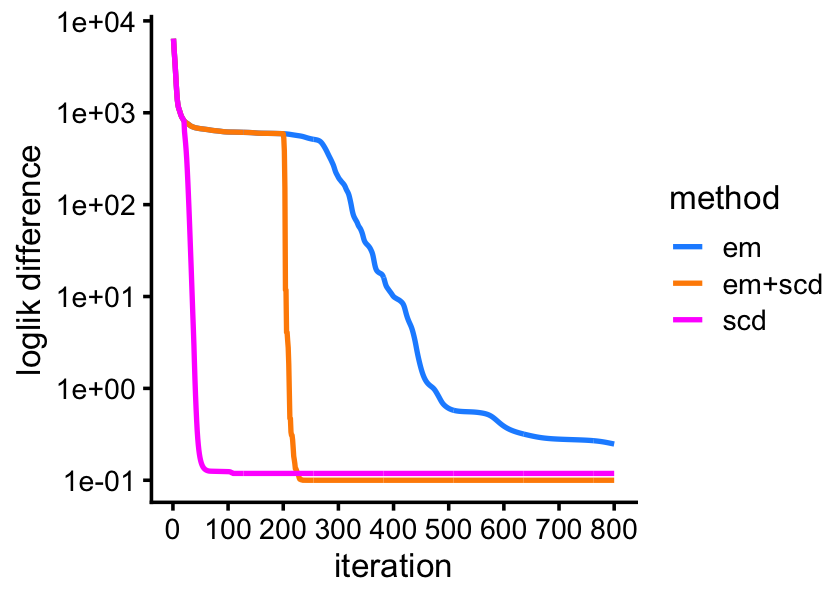
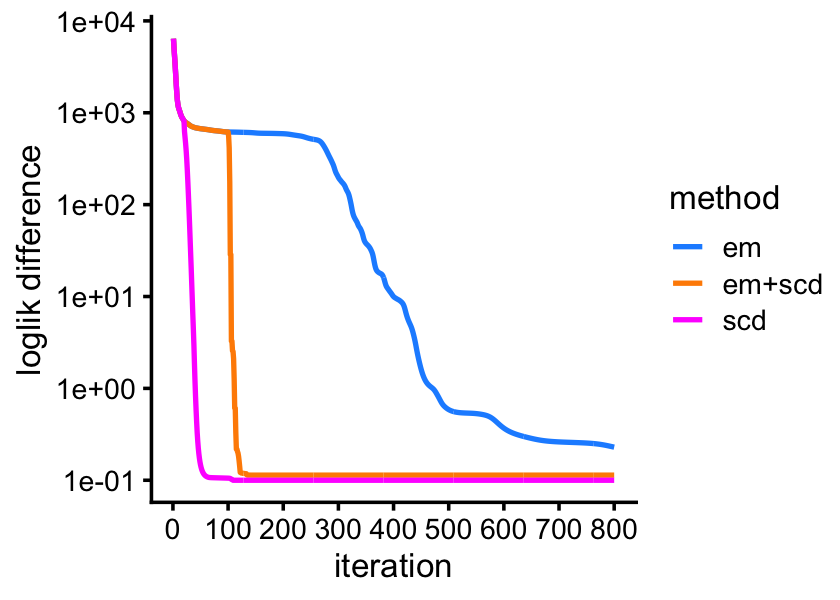
Small changes to the 'smallsim_hard' example.

diff --git a/docs/smallsim_hard.html b/docs/smallsim_hard.html
@@ -300,7 +300,7 @@ class="glyphicon glyphicon-ok text-success" aria-hidden="true"></span>
 <div class="tab-content">
 <div id="summary" class="tab-pane fade in active">
 <p>
-<strong>Last updated:</strong> 2024-06-23
+<strong>Last updated:</strong> 2024-06-26
 </p>
 <p>
 <strong>Checks:</strong> <span
@@ -432,15 +432,15 @@ project makes it easier to run your code on other machines.</p>
 <div class="panel panel-default">
 <div class="panel-heading">
 <p class="panel-title">
-<a data-toggle="collapse" data-parent="#workflowr-checks" href="#strongRepositoryversionstrongahrefhttpsgithubcomstephenslabfastTopicsexperimentstree4e9dfbe5d68f1d63eb97dcc6550660b9532a536ftargetblank4e9dfbea">
+<a data-toggle="collapse" data-parent="#workflowr-checks" href="#strongRepositoryversionstrongahrefhttpsgithubcomstephenslabfastTopicsexperimentstree00f10c09dfecbe395a263a3dd1c52882ba5e9a9btargetblank00f10c0a">
 <span class="glyphicon glyphicon-ok text-success"
 aria-hidden="true"></span> <strong>Repository version:</strong>
-<a href="https://github.com/stephenslab/fastTopics-experiments/tree/4e9dfbe5d68f1d63eb97dcc6550660b9532a536f" target="_blank">4e9dfbe</a>
+<a href="https://github.com/stephenslab/fastTopics-experiments/tree/00f10c09dfecbe395a263a3dd1c52882ba5e9a9b" target="_blank">00f10c0</a>
 </a>
 </p>
 </div>
 <div
[2 lines of base64/hex data omitted]
 class="panel-collapse collapse">
 <div class="panel-body">
 <p>
@@ -450,7 +450,7 @@ reproducibility.
 </p>
 <p>
 The results in this page were generated with repository version
-<a href="https://github.com/stephenslab/fastTopics-experiments/tree/4e9dfbe5d68f1d63eb97dcc6550660b9532a536f" target="_blank">4e9dfbe</a>.
+<a href="https://github.com/stephenslab/fastTopics-experiments/tree/00f10c09dfecbe395a263a3dd1c52882ba5e9a9b" target="_blank">00f10c0</a>.
 See the <em>Past versions</em> tab to see a history of the changes made
 to the R Markdown and HTML files.
 </p>
@@ -529,6 +529,41 @@ Message
 </tr>
 </thead>
 <tbody>
+<tr>
+<td>
+Rmd
+</td>
+<td>
+<a href="https://github.com/stephenslab/fastTopics-experiments/blob/00f10c09dfecbe395a263a3dd1c52882ba5e9a9b/analysis/smallsim_hard.Rmd" target="_blank">00f10c0</a>
+</td>
+<td>
+Peter Carbonetto
+</td>
+<td>
+2024-06-26
+</td>
+<td>
+workflowr::wflow_publish("smallsim_hard.Rmd", view = FALSE, verbose =
+TRUE)
+</td>
+</tr>
+<tr>
+<td>
+html
+</td>
+<td>
+<a href="https://rawcdn.githack.com/stephenslab/fastTopics-experiments/8759fe239c2e91da7968a11c1d8ad09c5d56da31/docs/smallsim_hard.html" target="_blank">8759fe2</a>
+</td>
+<td>
+Peter Carbonetto
+</td>
+<td>
+2024-06-23
+</td>
+<td>
+Ran workflowr::wflow_publish("smallsim_hard.Rmd").
+</td>
+</tr>
 <tr>
 <td>
 Rmd
@@ -634,15 +669,13 @@ X &lt;- simulate_multinom_counts(L,F,s)
 cols &lt;- which(colSums(X &gt; 0) &gt; 0)
 F &lt;- F[cols,]
 X &lt;- X[,cols]</code></pre>
-<p>We fit the multinomial topic model by performing (i) 180 EM updates
-(without extrapolation), or (ii) 180 SCD updates (with extrapolation).
-Both of the fits are initialized by running 20 EM updates.</p>
+<p>We fit the multinomial topic model by performing 80 EM updates or 80
+SCD updates. Both of the fits are initialized by running 20 EM
+updates.</p>
 <pre class="r"><code>control &lt;- list(extrapolate = FALSE,numiter = 4)
 fit0 &lt;- fit_poisson_nmf(X,k,numiter=20,method=&quot;em&quot;,control=control)
-fit1 &lt;- fit_poisson_nmf(X,fit0=fit0,numiter=180,method=&quot;em&quot;,control=control)
-fit2 &lt;- fit_poisson_nmf(X,fit0=fit0,numiter=80,method=&quot;scd&quot;,control=control)
-control$extrapolate &lt;- TRUE
-fit2 &lt;- fit_poisson_nmf(X,fit0=fit2,numiter=100,method=&quot;scd&quot;,control=control)</code></pre>
+fit1 &lt;- fit_poisson_nmf(X,fit0=fit0,numiter=80,method=&quot;em&quot;,control=control)
+fit2 &lt;- fit_poisson_nmf(X,fit0=fit0,numiter=80,method=&quot;scd&quot;,control=control)</code></pre>
 <p>EM and SCD produce quite different estimates, and among the two, the
 SCD estimates are much closer to the truth.</p>
 <pre class="r"><code>topic_colors &lt;- c(&quot;dodgerblue&quot;,&quot;darkorange&quot;,&quot;forestgreen&quot;,&quot;darkblue&quot;,
@@ -656,27 +689,63 @@ p3 &lt;- simdata_structure_plot(poisson2multinom(fit2)$L,loadings_order,
                              topic_colors[k_set],title = &quot;SCD&quot;)
 plot_grid(p1,p2,p3,nrow = 3,ncol = 1)</code></pre>
 <p><img src="figure/smallsim_hard.Rmd/compare-fits-1.png" width="600" style="display: block; margin: auto;" /></p>
+<p>
+<button type="button" class="btn btn-default btn-xs btn-workflowr btn-workflowr-fig" data-toggle="collapse" data-target="#fig-compare-fits-1">
+Past versions of compare-fits-1.png
+</button>
+</p>
+<div id="fig-compare-fits-1" class="collapse">
+<div class="table-responsive">
+<table class="table table-condensed table-hover">
+<thead>
+<tr>
+<th>
+Version
+</th>
+<th>
+Author
+</th>
+<th>
+Date
+</th>
+</tr>
+</thead>
+<tbody>
+<tr>
+<td>
+<a href="https://github.com/stephenslab/fastTopics-experiments/blob/8759fe239c2e91da7968a11c1d8ad09c5d56da31/docs/figure/smallsim_hard.Rmd/compare-fits-1.png" target="_blank">8759fe2</a>
+</td>
+<td>
+Peter Carbonetto
+</td>
+<td>
+2024-06-23
+</td>
+</tr>
+</tbody>
+</table>
+</div>
+</div>
 <p>Indeed, the SCD estimates also improve upon the EM estimates in terms
 of log-likelihood, with a total improvement of 600 log-likelihood
 units,</p>
 <pre class="r"><code>c(&quot;em&quot; = sum(loglik_multinom_topic_model(X,fit1)),
   &quot;scd&quot; = sum(loglik_multinom_topic_model(X,fit2)))
 #        em       scd 
-# -31465.61 -30874.44</code></pre>
+# -31491.97 -30874.44</code></pre>
 <p>or an average of 6 log-likelihood units per document,</p>
 <pre class="r"><code>c(&quot;em&quot; = sum(loglik_multinom_topic_model(X,fit1)),
   &quot;scd&quot; = sum(loglik_multinom_topic_model(X,fit2)))/n
 #        em       scd 
-# -314.6561 -308.7444</code></pre>
+# -314.9197 -308.7444</code></pre>
 <p>What is reassuring is that if we continue to perform the EM updates,
 we eventually arrive at the same solution as SCD. But SCD is able to
 “rescue” the EM estimates much more quickly after performing just a few
 SCD updates.</p>
-<pre class="r"><code>control$extrapolate &lt;- FALSE
-fit3 &lt;- fit_poisson_nmf(X,fit0=fit1,numiter=600,method=&quot;em&quot;,control=control)
+<pre class="r"><code>fit3 &lt;- fit_poisson_nmf(X,fit0=fit1,numiter=700,method=&quot;em&quot;,control=control)
 control$extrapolate &lt;- TRUE
-fit2 &lt;- fit_poisson_nmf(X,fit0=fit2,numiter=600,method=&quot;scd&quot;,control=control)
-fit4 &lt;- fit_poisson_nmf(X,fit0=fit1,numiter=600,method=&quot;scd&quot;,control=control)
+fit2 &lt;- fit_poisson_nmf(X,fit0=fit2,numiter=700,method=&quot;scd&quot;,control=control)
+fit4 &lt;- fit_poisson_nmf(X,fit0=fit1,numiter=700,method=&quot;scd&quot;,control=control)
 fit1 &lt;- poisson2multinom(fit1)
 fit2 &lt;- poisson2multinom(fit2)
 fit3 &lt;- poisson2multinom(fit3)
@@ -701,6 +770,43 @@ ggplot(pdat,aes(x = iter,y = ll,color = method)) +
   labs(x = &quot;iteration&quot;,y = &quot;loglik difference&quot;) +
   theme_cowplot(font_size = 10)</code></pre>
 <p><img src="figure/smallsim_hard.Rmd/fit-models-2-1.png" width="420" style="display: block; margin: auto;" /></p>
+<p>
+<button type="button" class="btn btn-default btn-xs btn-workflowr btn-workflowr-fig" data-toggle="collapse" data-target="#fig-fit-models-2-1">
+Past versions of fit-models-2-1.png
+</button>
+</p>
+<div id="fig-fit-models-2-1" class="collapse">
+<div class="table-responsive">
+<table class="table table-condensed table-hover">
+<thead>
+<tr>
+<th>
+Version
+</th>
+<th>
+Author
+</th>
+<th>
+Date
+</th>
+</tr>
+</thead>
+<tbody>
+<tr>
+<td>
+<a href="https://github.com/stephenslab/fastTopics-experiments/blob/8759fe239c2e91da7968a11c1d8ad09c5d56da31/docs/figure/smallsim_hard.Rmd/fit-models-2-1.png" target="_blank">8759fe2</a>
+</td>
+<td>
+Peter Carbonetto
+</td>
+<td>
+2024-06-23
+</td>
+</tr>
+</tbody>
+</table>
+</div>
+</div>
 <br>
 <p>
 <button type="button" class="btn btn-default btn-workflowr btn-workflowr-sessioninfo" data-toggle="collapse" data-target="#workflowr-sessioninfo" style="display: block;">
@@ -728,7 +834,7 @@ Session information
 # [1] stats     graphics  grDevices utils     datasets  methods   base     
 # 
 # other attached packages:
-# [1] cowplot_1.1.3      ggplot2_3.5.0      mvtnorm_1.2-4      fastTopics_0.6-175
+# [1] cowplot_1.1.3      ggplot2_3.5.0      mvtnorm_1.2-4      fastTopics_0.6-184
 # [5] topicmodels_0.2-16 tm_0.7-13          NLP_0.2-1         
 # 
 # loaded via a namespace (and not attached):
